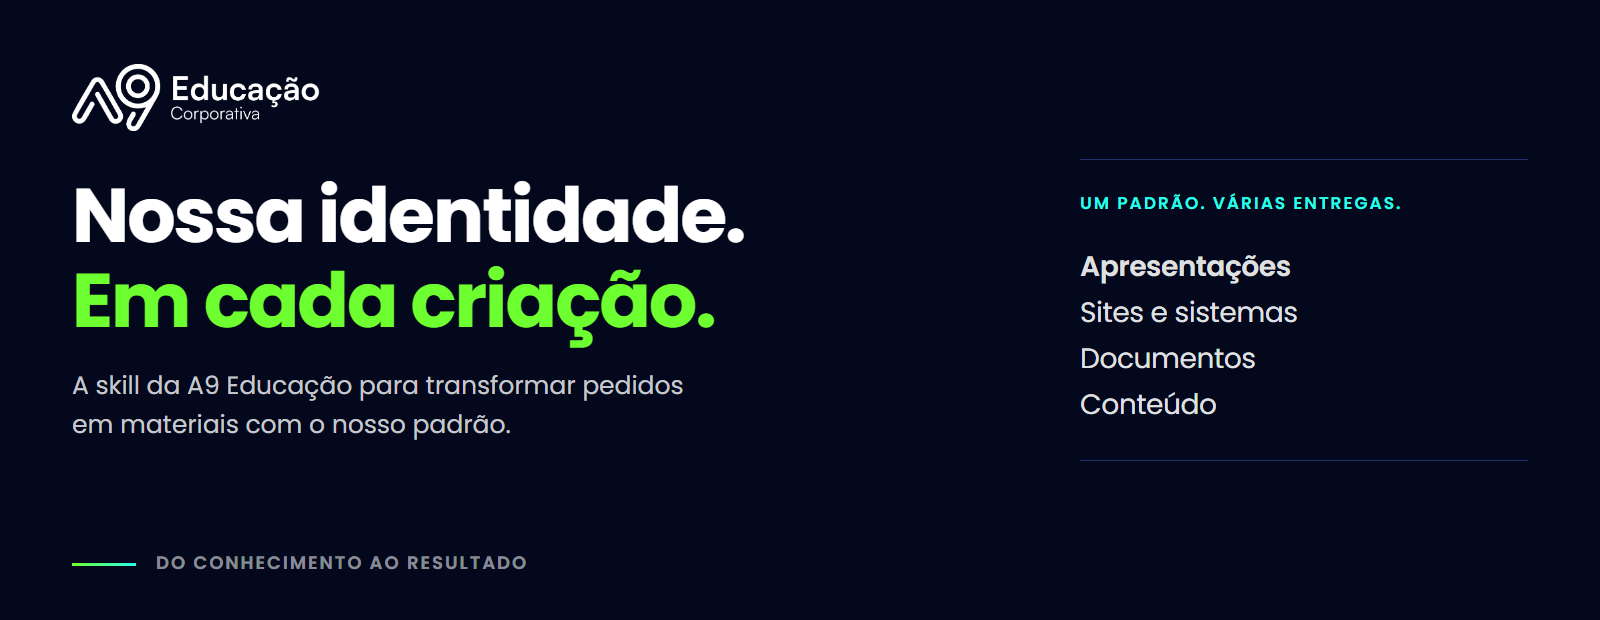
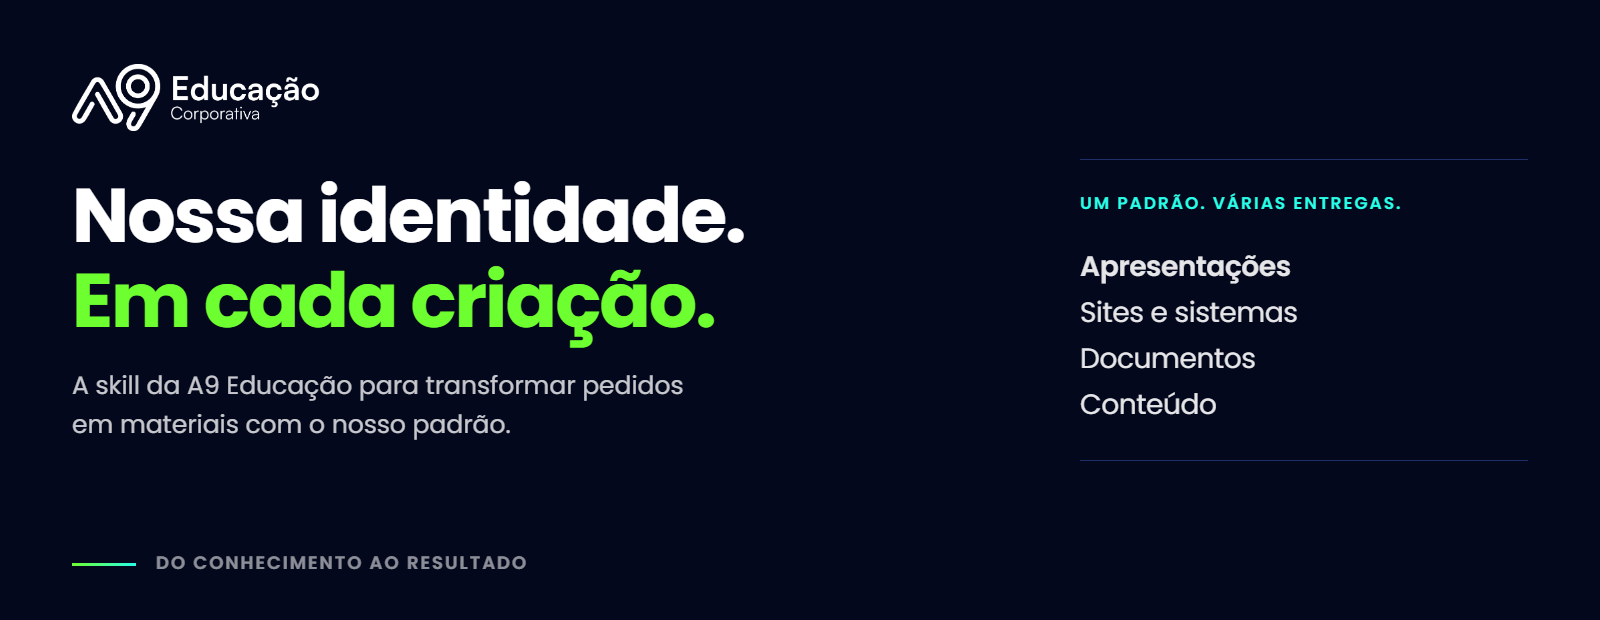
Ajusta botões do README para fundos claros e escuros

diff --git a/scripts/readme-art.html b/scripts/readme-art.html
@@ -2,8 +2,8 @@
 <html lang="pt-BR"><meta charset="utf-8"><title>Capa A9 Educação</title>
 <style>
 {{FONT_CSS}}
-*{box-sizing:border-box}html,body{margin:0;width:1600px;background:#03081C;color:white;font-family:Poppins,sans-serif}
-.hero{width:1600px;height:620px;padding:64px 72px;position:relative;display:grid;grid-template-columns:960px 1fr;gap:48px}
+*{box-sizing:border-box}html,body{margin:0;width:1600px;background:transparent;color:white;font-family:Poppins,sans-serif}
+.hero{width:1600px;height:620px;padding:64px 72px;position:relative;display:grid;grid-template-columns:960px 1fr;gap:48px;background:#03081C}
 .logo{width:248px;height:auto;display:block;margin-bottom:42px}
 h1{font-size:76px;line-height:1.12;letter-spacing:-2px;font-weight:700;margin:0}
 h1 span{color:#6DFF30}
@@ -14,7 +14,7 @@ h1 span{color:#6DFF30}
 .eyebrow{font-size:17px;letter-spacing:2px;font-weight:600;color:#29FFE8;margin:0 0 28px}
 .capabilities p:not(.eyebrow){font-size:28px;line-height:1.65;letter-spacing:-.4px;margin:0;color:rgba(255,255,255,.9)}
 .capabilities strong{font-weight:600}
-.cta-row{height:156px;display:flex;gap:32px;padding:42px 40px;background:#F6F7FB}
+.cta-row{height:156px;display:flex;gap:32px;padding:42px 40px;background:transparent}
 .button{display:flex;justify-content:center;align-items:center;width:360px;height:72px;border-radius:10px;font-size:23px;font-weight:600;gap:16px}
 .download{background:#6DFF30;color:#03081C}
 .install{background:#050E2A;color:white}

diff --git a/scripts/render_readme.py b/scripts/render_readme.py
@@ -28,7 +28,7 @@ def render(chrome):
     source.write_text(html,"utf-8",newline="\n")
     screenshot = work/"art.png"
     before = screenshot.stat().st_mtime_ns if screenshot.exists() else 0
-    subprocess.run([str(chrome),"--headless=new","--disable-gpu","--hide-scrollbars",
+    subprocess.run([str(chrome),"--headless=new","--disable-gpu","--hide-scrollbars","--default-background-color=00000000",
                     "--no-first-run","--no-default-browser-check","--host-resolver-rules=MAP * ~NOTFOUND",
                     "--user-data-dir="+str(work/"profile"),"--force-device-scale-factor=1",
                     "--window-size=1600,776","--screenshot="+str(screenshot),source.as_uri()],
